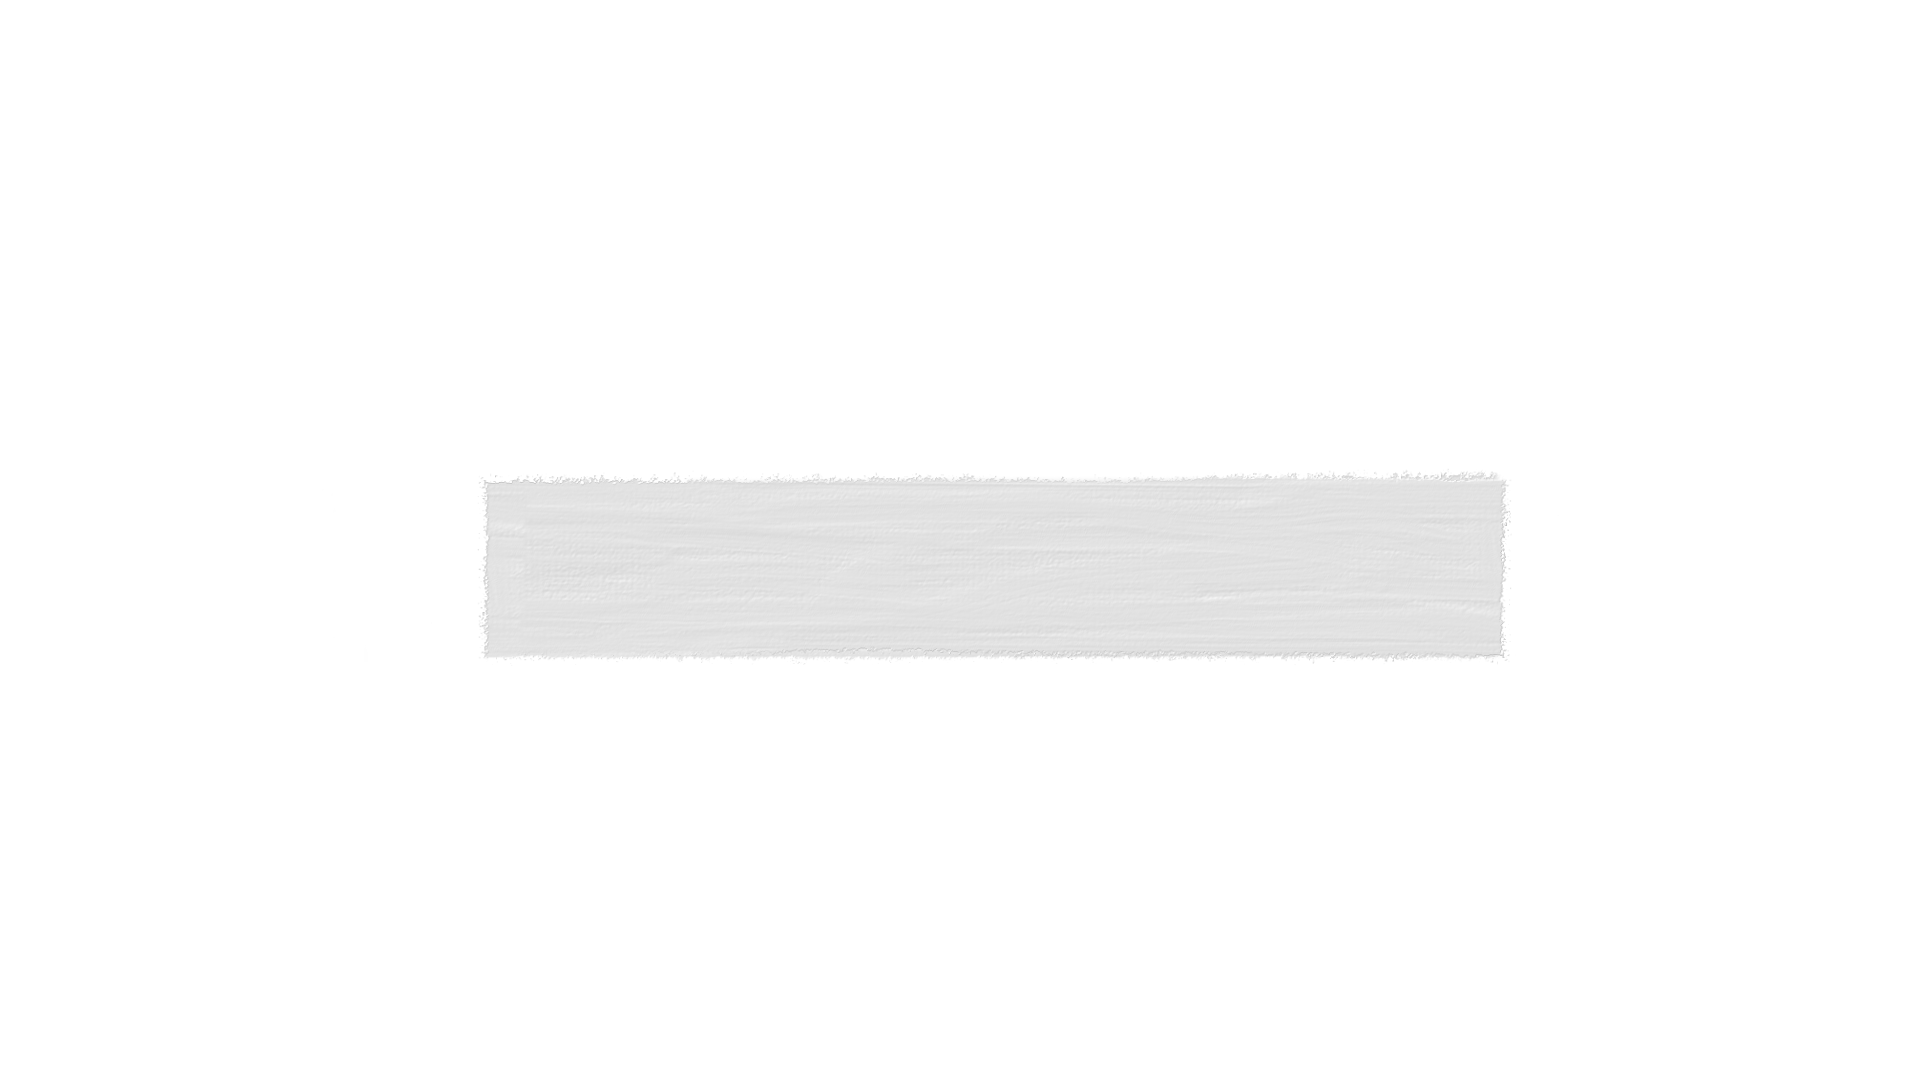
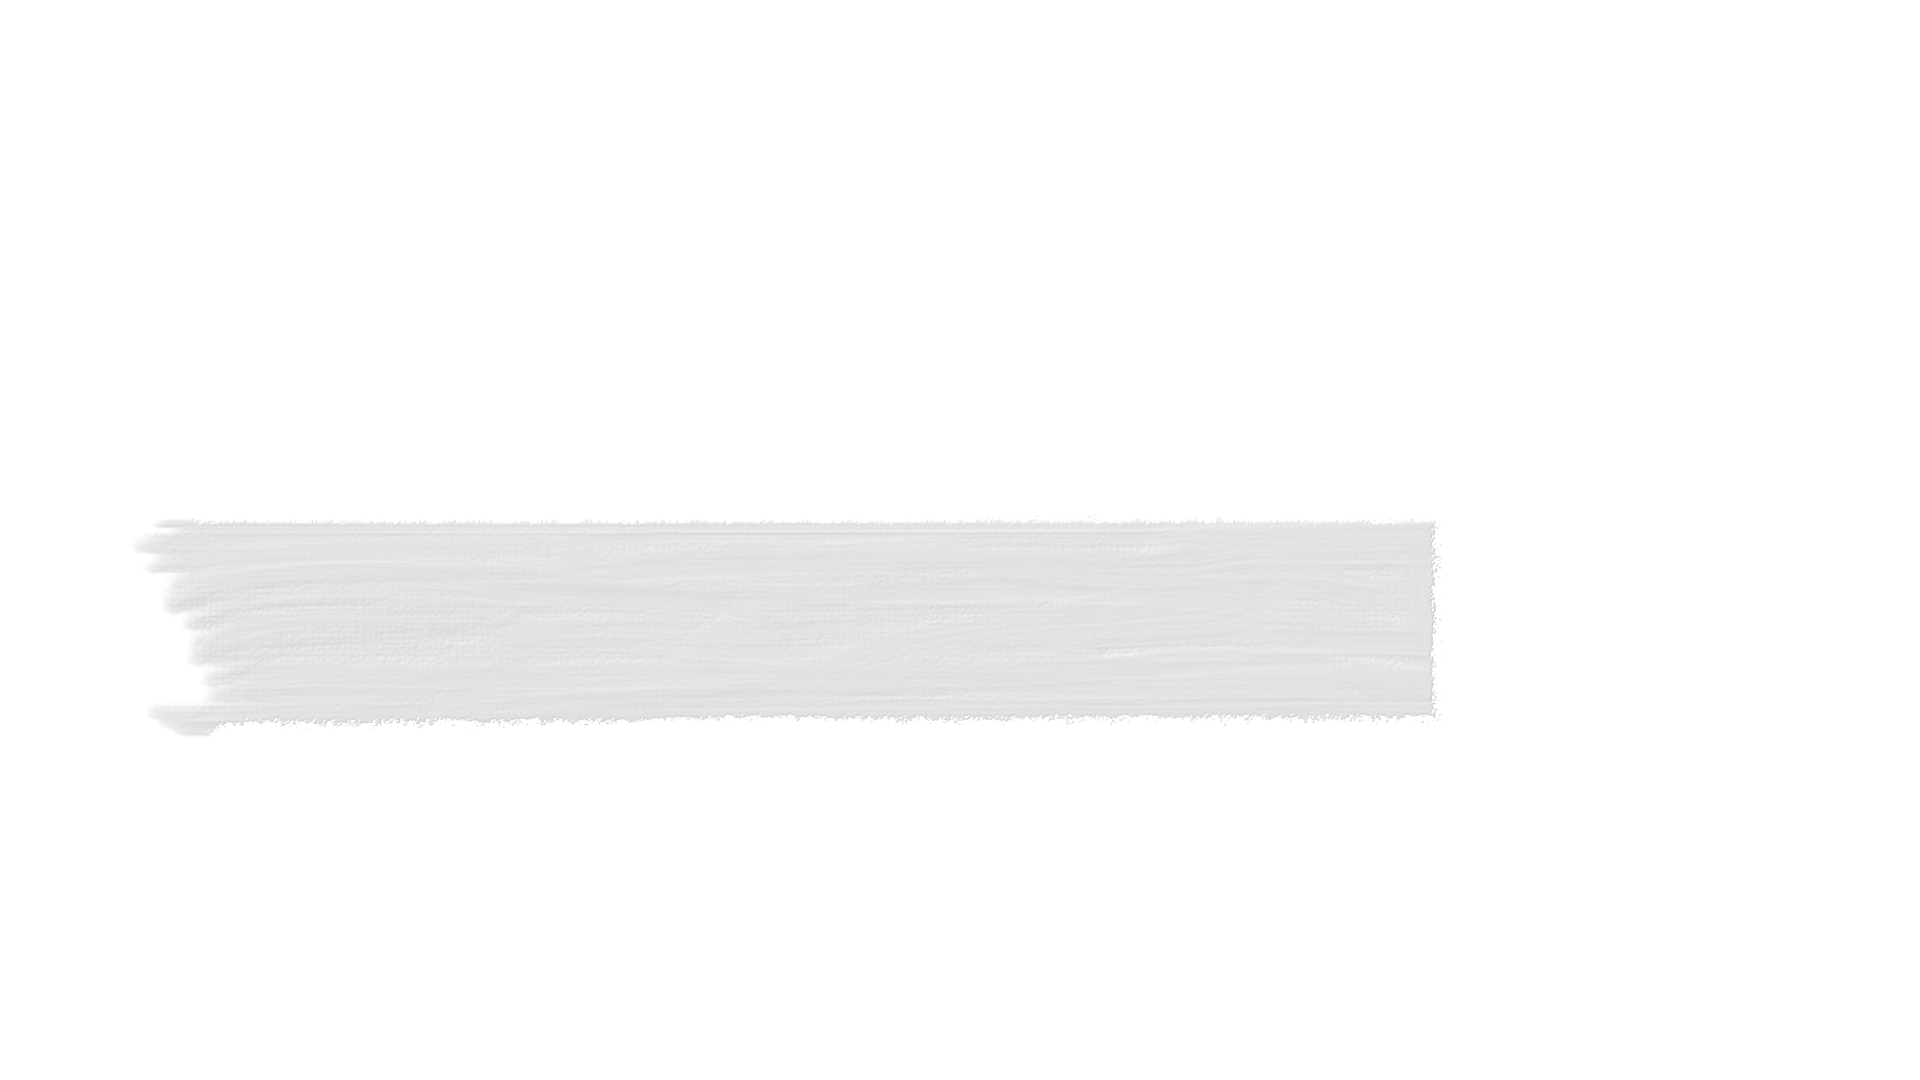
nearly done

Changed region(s): [[0.0625, 0.4278, 0.7812, 0.7028]]

diff --git a/sketch.js b/sketch.js
@@ -1,5 +1,6 @@
 let test;
 let test2;
+let großerkreis;
 let headline;
 let fließtext;
 
@@ -25,7 +26,7 @@ let animationStartVerzoegerung = 2500;
 // ========== SEITE 1 FADE-IN VARIABLEN ==========
 let diagram1Opacity = 0;        // Start mit 0% Opacity
 let diagram1FadeStart = 0;      // Zeitpunkt, wann das Fade-in beginnt
-let diagram1FadeDauer = 2000;   // Dauer des Fade-ins in Millisekunden (2 Sekunden)
+let diagram1FadeDauer = 500;   // Dauer des Fade-ins in Millisekunden
 let diagram1FadeAktiv = true;    // Ob das Fade-in aktiv ist
 let diagram1Sichtbar = false;    // Ob Diagramm 1 überhaupt angezeigt werden soll
 // ================================================
@@ -92,8 +93,8 @@ let frau5;
 let tinypeople;
 
 // ========== SEITE 2 VARIABLEN ==========
-let aktuellerButton = 0; // 0 = nichts ausgewählt (zeigt Zitat 1 und Frau 1), 1-5 = Button 1-5
-let buttonHover = -1; // Welcher Button gerade gehovert wird (-1 = keiner)
+let aktuellerButton = 0; // 0 = nichts ausgewählt
+let buttonHover = -1; //-1 = keiner
 
 // Zitate für Seite 2
 let zitate = [
@@ -115,6 +116,7 @@ function preload() {
   test2= loadImage('assets/hintergrundskizze2.jpg');
   headline = loadFont("assets/Avenir Heavy.ttf");
   fließtext = loadFont("assets/Avenir Regular.ttf");
+  großerkreis= loadImage("assets/großer kreis.png");
 
   pfeil = loadImage("assets/3a.webp");
   pfeil1 = loadImage("assets/4a.webp");
@@ -151,14 +153,14 @@ function preload() {
 }
 
 function setup() {
-  createCanvas(windowWidth, windowHeight * 2.1);
+  createCanvas(windowWidth, windowHeight * 2.025);
   updateCachedValues();
   frameRate(30);
   pixelDensity(0.9);
-  aktuellerButton = 1; // Standardmäßig Zitat 1 und Frau 1 anzeigen
+  aktuellerButton = 1; // Zitat 1 und Frau 1 anzeigen
   
-  // Starte den Timer für das Fade-in von Diagramm 1
-  diagram1FadeStart = millis() + 2000;  // In 2 Sekunden beginnen
+  // Starte den Timer für Fade-in Diagramm 1
+  diagram1FadeStart = millis() + 2000;  
   diagram1FadeAktiv = true;
 }
 
@@ -208,9 +210,10 @@ function updateCachedValues() {
       imgX: windowWidth / 41.833333,
       imgY: 0
     },
-    pfeilX: windowWidth / 41.833333,
+    pfeilX: windowWidth / 35,
     pfeilX2: windowWidth / 38,
     pfeilX3: windowWidth / 39.8,
+    pfeilX3a: windowWidth / 37,
     arrowX: windowWidth / 41.833333
   };
   
@@ -222,11 +225,11 @@ function updateCachedValues() {
 function draw() {
   background(47, 45, 45);
   
-  // ========== FADE-IN LOGIK FÜR DIAGRAMM 1 ==========
+  // ========== FADE-IN LOGIK DIAGRAMM 1 ==========
   if (diagram1FadeAktiv) {
     let now = millis();
     if (now >= diagram1FadeStart) {
-      // Fade-in wurde gestartet
+      
       let fadeProgress = (now - diagram1FadeStart) / diagram1FadeDauer;
       if (fadeProgress >= 1.0) {
         // Fade-in abgeschlossen
@@ -247,6 +250,10 @@ function draw() {
   push();
   scale(0.93);
   image(test, windowWidth/40, 0, windowWidth, cachedValues.neueHoehe);
+  pop();
+  push();
+  scale(0.91);
+  image(großerkreis,-windowWidth/3.15,windowHeight/3.70,windowWidth,cachedValues.neueHoehe);
   pop();
   
   //=================SEITE 1=========================//
@@ -348,7 +355,7 @@ function drawStaticElements() {
 
   // Diagramm 2 Pfeile
   if(showDiagram2 && diagram2_2_percent_clicked) {
-    image(pfeil4, cachedValues.pfeilX3, 0, windowWidth, cachedValues.neueHoehe);
+    image(pfeil4, cachedValues.pfeilX3a, 0, windowWidth, cachedValues.neueHoehe);
   }
   if(showDiagram2 && diagram2_98_percent_clicked) {
     image(pfeil5, cachedValues.pfeilX3, 0, windowWidth, cachedValues.neueHoehe);
@@ -488,14 +495,13 @@ function drawPiechartone() {
     }
   }
   
-  // Unsichtbare Hitbox
+  // Hitbox
   noStroke();
   noFill();
   for (let i = 0; i < cachedSegments1.length; i++) {
     arc(d.arcX, d.arcY, d.arcS, d.arcS, cachedSegments1[i].start, cachedSegments1[i].ende, PIE);
   }
   
-  // Bild basierend auf Hover - mit Opacity
   push();
   tint(255, diagram1Opacity);
   if (currentHoverSegment1 === 0) {
@@ -627,11 +633,11 @@ function mouseMoved() {
   }
   
   // ========== SEITE 2 BUTTON HOVER ==========
-  let buttonWidth = 20;
-  let buttonHeight = 40;
-  let margin = windowWidth/90;
-  let startX = windowWidth/3.85;
-  let buttonY = windowWidth/1.054;
+  let buttonWidth = 25;
+  let buttonHeight = 55;
+  let margin = windowWidth/89;
+  let startX = windowWidth/4.085;
+  let buttonY = windowWidth/1.048;
   
   buttonHover = -1;
   for (let i = 0; i < 5; i++) {
@@ -686,11 +692,11 @@ function mousePressed() {
   }
   
   // ========== SEITE 2 BUTTON CLICKS ==========
-  let buttonWidth = 20;
-  let buttonHeight = 40;
-  let margin = windowWidth/90;
-  let startX = windowWidth/3.85;
-  let buttonY = windowWidth/1.054;
+  let buttonWidth = 25;
+  let buttonHeight = 55;
+  let margin = windowWidth/89;
+  let startX = windowWidth/4.085;
+  let buttonY = windowWidth/1.048;
   
   for (let i = 0; i < 5; i++) {
     let buttonX = startX + (i * margin);
@@ -719,10 +725,10 @@ function drawpage2() {
 
   //Buttons
   let buttonWidth = 25;
-  let buttonHeight = 50;
-  let margin = windowWidth/88;
-  let startX = windowWidth/3.86;
-  let buttonY = windowWidth/1.056;
+  let buttonHeight = 55;
+  let margin = windowWidth/89;
+  let startX = windowWidth/4.085;
+  let buttonY = windowWidth/1.048;
 
   noStroke();
   for (let i = 0; i < 5; i++) {
@@ -744,31 +750,31 @@ function drawpage2() {
   textSize(cachedValues.textSizeFließtext);
   textLeading(cachedValues.textLeading);
   text('For years, women have faced sexual harassment online. With the rise of artificial intelligence, its only\ngetting worse.Deepfakes, which use A.I. to create manipulated, but hyper-realistic images and videos of\nreal people in fake situations, are routinely used against women. Data reveals very strong global growth in\ndeepfake pornography videos, particularly those created without consent. The total number of deepfakes\nonline is projected to rise from approximately 500,000 in 2023 to around 8 million in 2025, representing\nexponential global growth. Some reports indicate that the volume of deepfakes roughly doubles every six\nmonths.',
-  windowWidth/1.935, windowWidth/1.5);
+  windowWidth/1.935, windowWidth/1.4);
 
   textFont(headline);
-  textSize(windowWidth/69); 
-  textLeading(cachedValues.textLeading); 
-  text('Women who have been affected by deepfakes',
-  windowWidth/4.7, windowWidth/1.2);
+  textSize( cachedValues.percentSize); 
+  textLeading(windowWidth / 33); 
+  text('Women who have been \naffected by deepfakes',
+  windowWidth/1.935, windowWidth/1.55);
 
   ////Bilder
   push();
   scale(0.93);
-  image(weißerkasten, windowWidth/25-windowWidth/15,windowWidth/1.5,windowWidth,cachedValues.neueHoehe);
-  image(tinypeople,-windowWidth/25,windowWidth/1.5,windowWidth,cachedValues.neueHoehe);
+  image(weißerkasten, windowWidth/25-windowWidth/15,windowWidth/1.55,windowWidth,cachedValues.neueHoehe);
+  image(tinypeople,-windowWidth/18,windowWidth/1.48,windowWidth,cachedValues.neueHoehe);
   
   // Frau basierend auf aktuellerButton anzeigen
   if (aktuellerButton === 1) {
-    image(frau1, windowWidth/40-windowWidth/10, windowWidth/1.5, windowWidth, cachedValues.neueHoehe);
+    image(frau1, windowWidth/40-windowWidth/10, windowWidth/1.6, windowWidth, cachedValues.neueHoehe);
   } else if (aktuellerButton === 2) {
-    image(frau2, windowWidth/40-windowWidth/15, windowWidth/1.45, windowWidth, cachedValues.neueHoehe);
+    image(frau2, windowWidth/40-windowWidth/15, windowWidth/1.55, windowWidth, cachedValues.neueHoehe);
   } else if (aktuellerButton === 3) {
-    image(frau3, windowWidth/40-windowWidth/13, windowWidth/1.5, windowWidth, cachedValues.neueHoehe);
+    image(frau3, windowWidth/40-windowWidth/13, windowWidth/1.6, windowWidth, cachedValues.neueHoehe);
   } else if (aktuellerButton === 4) {
-    image(frau4, windowWidth/40-windowWidth/12, windowWidth/1.5, windowWidth, cachedValues.neueHoehe);
+    image(frau4, windowWidth/40-windowWidth/12, windowWidth/1.6, windowWidth, cachedValues.neueHoehe);
   } else if (aktuellerButton === 5) {
-    image(frau5, windowWidth/40-windowWidth/13, windowWidth/1.45, windowWidth, cachedValues.neueHoehe);
+    image(frau5, windowWidth/40-windowWidth/13, windowWidth/1.55, windowWidth, cachedValues.neueHoehe);
   }
   pop();
 
@@ -781,11 +787,11 @@ function drawpage2() {
     textFont(fließtext);
     textSize(cachedValues.textSizeFließtext);
     textLeading(cachedValues.textLeading);
-    text(zitate[zitatIndex], windowWidth/3.8, windowWidth/1.14);
+    text(zitate[zitatIndex], windowWidth/4.1, windowWidth/1.14);
   }
 }
 
 function windowResized() {
-  resizeCanvas(windowWidth, windowHeight * 2.1);
+  resizeCanvas(windowWidth, windowHeight * 2.025);
   updateCachedValues();
 }
